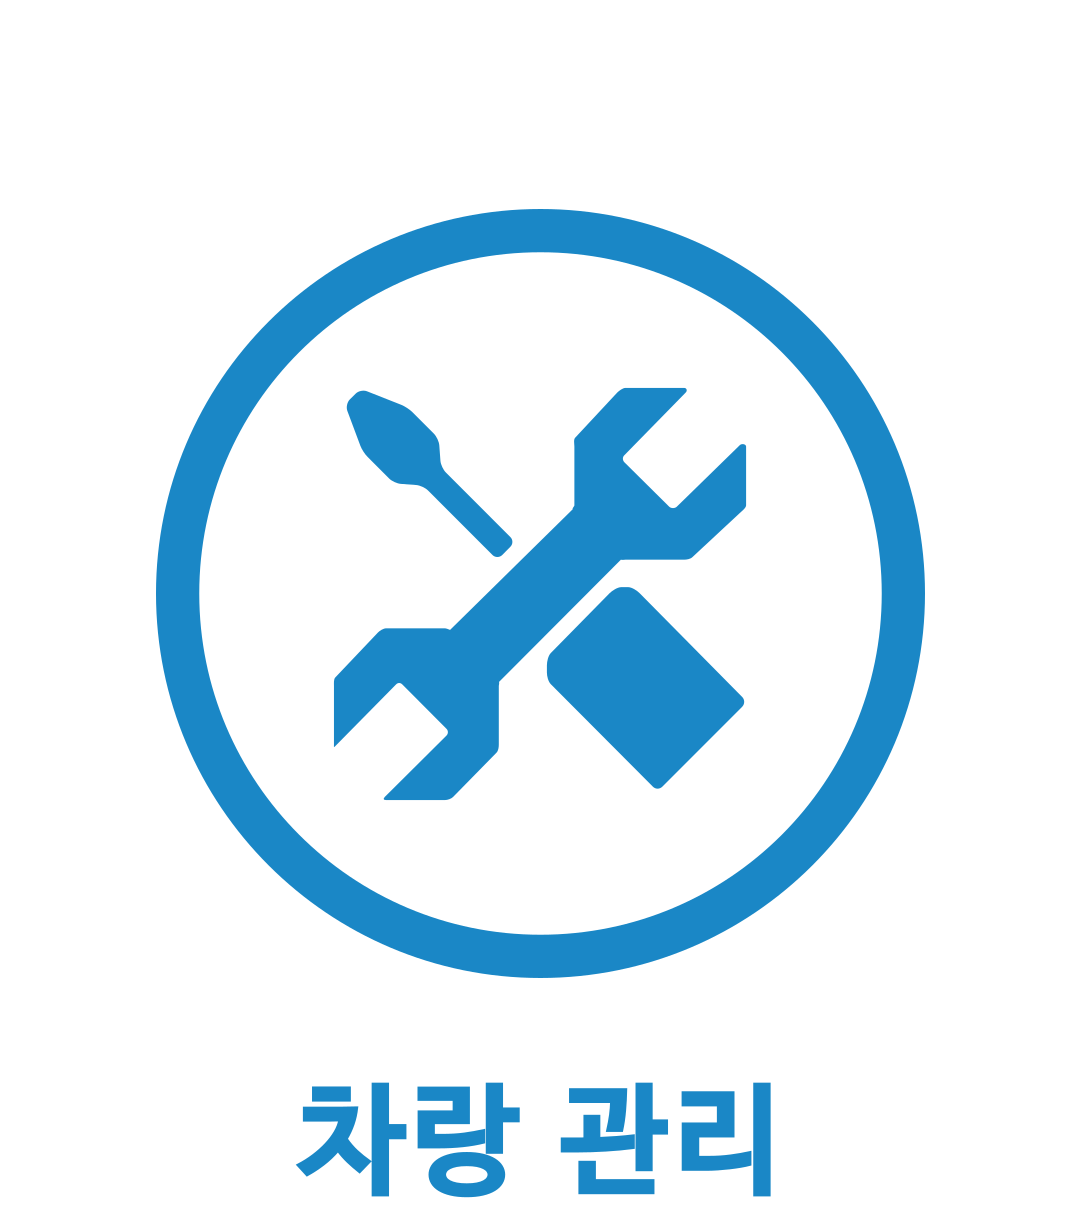
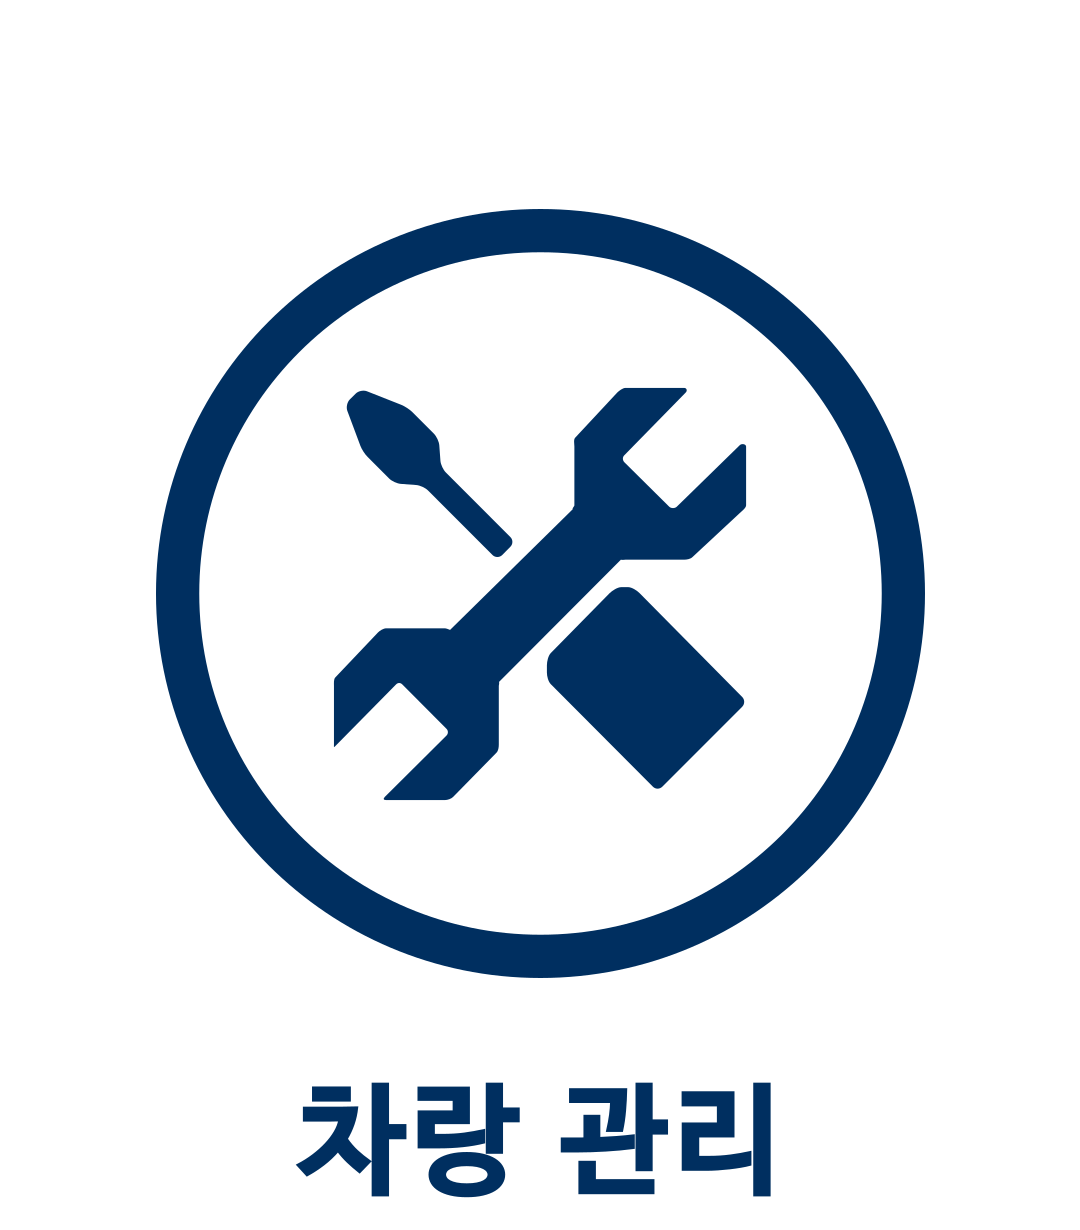
이미지, 색상 수정

diff --git a/src/main/java/com/ohmycar/service/CarFactsServiceImpl.java b/src/main/java/com/ohmycar/service/CarFactsServiceImpl.java
@@ -52,7 +52,7 @@ public class CarFactsServiceImpl implements CarFactsService {
 	public List<CarFactsVO> getRandom(){
 		List<CarFactsVO> allCarFacts = mapper.selectAll();
 		Collections.shuffle(allCarFacts);
-		return allCarFacts.stream().limit(10).collect(Collectors.toList());
+		return allCarFacts.stream().limit(5).collect(Collectors.toList());
 		
 	}
 
